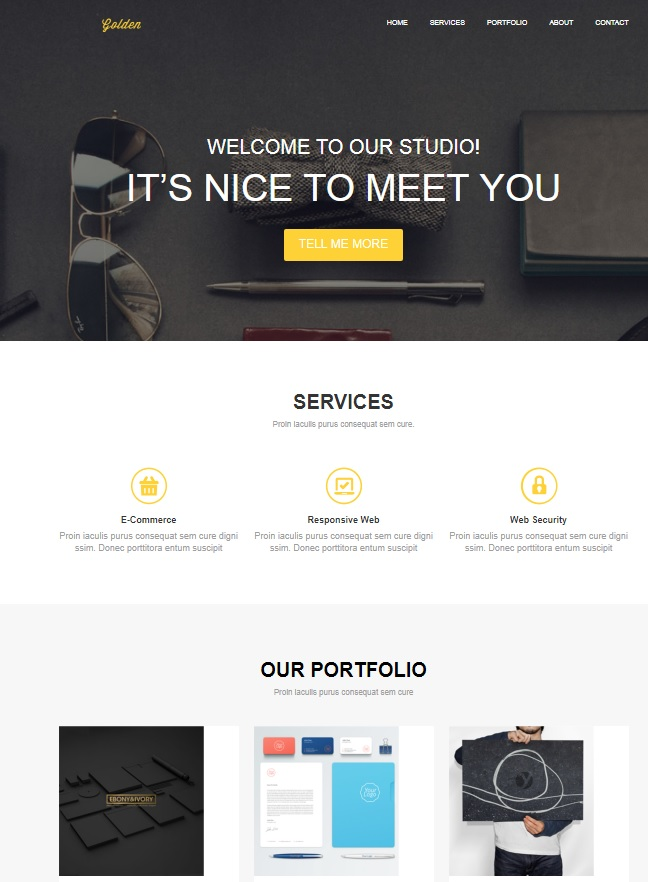
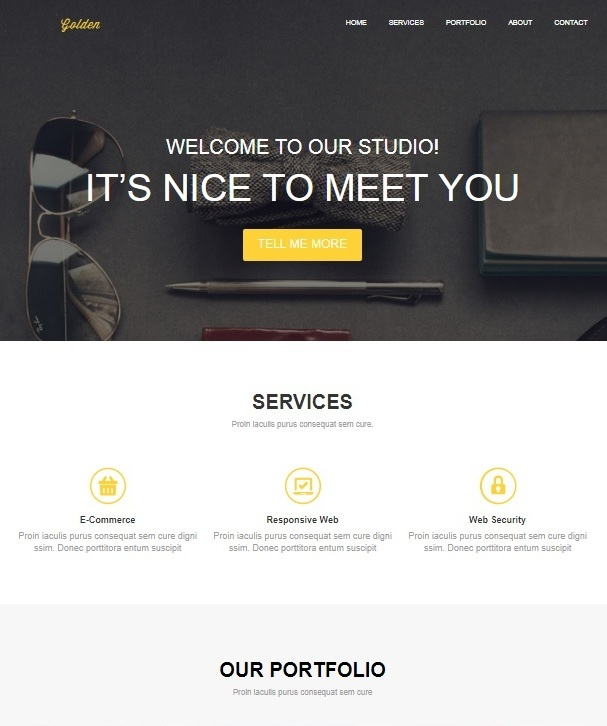
add new works
add new works

diff --git a/index.html b/index.html
@@ -39,17 +39,25 @@
     <div class="portfolio container" id="portfolio">
         <h2 class="portfolio__title">Портфоліо</h2>
         <div class="row">
-            <div class="col-xs-12 col-sm-4 col-md-4">
+            <div class="col-xs-12 col-sm-6 col-md-4">
                 <img src="img/work1.jpg" alt="">
                 <a href="#work" data-toggle="modal" data-work="work1">Переглянути роботу</a>
             </div>
-            <div class="col-xs-12 col-sm-4 col-md-4">
+            <div class="col-xs-12 col-sm-6 col-md-4">
                 <img src="img/work2.jpg" alt="">
                 <a href="#work" data-toggle="modal" data-work="work2">Переглянути роботу</a>
             </div>
-            <div class="col-xs-12 col-sm-4 col-md-4">
+            <div class="col-xs-12 col-sm-6 col-md-4">
                 <img src="img/work3.jpg" alt="">
                 <a href="#work" data-toggle="modal" data-work="work3">Переглянути роботу</a>
+            </div>
+            <div class="col-xs-12 col-sm-6 col-md-4">
+                <img src="img/work4.jpg" alt="">
+                <a href="#work" data-toggle="modal" data-work="work4">Переглянути роботу</a>
+            </div>
+            <div class="col-xs-12 col-sm-6 col-md-4">
+                <img src="img/work5.jpg" alt="">
+                <a href="#work" data-toggle="modal" data-work="work5">Переглянути роботу</a>
             </div>
         </div>
     </div>
@@ -72,7 +80,7 @@
                 </div>
                 <div class="col-md-3">
                     <p>Напишіть мені</p>
-                    <a href="#" class="offer-btn">Заказати сайт</a>
+                    <a href="#" class="offer-btn">Замовити сайт</a>
                 </div>
             </div>
         </div>

diff --git a/css/style.css b/css/style.css
@@ -38,6 +38,8 @@ body{
 }
 .main__overlay{
     position: absolute;
+    left: 0;
+    right: 0;
     height: 100%;
     width: 100%;
     background-color: rgba(0,0,0,.8);
@@ -73,7 +75,8 @@ body{
     text-transform: uppercase;
 }
 .portfolio img{
-    max-width: 100%;
+    width: 100%;
+    max-width: 250px;
     height: auto;
     box-shadow: 0 4px 29px 0 rgba(87, 92, 97, .54);
 }
@@ -97,7 +100,7 @@ body{
 
 footer{
     text-align: center;
-    background-color: #646464;
+    background-color: lightseagreen;
     color: #e4e4e4;
     padding: 40px 0;
     font-size: 22px;
@@ -190,6 +193,13 @@ footer{
     }
 }
 
+@media (min-width: 600px){
+    .portfolio img{
+        width: 300px;
+        height: 350px;
+        max-width: 400px;
+    }
+}
 /*modal new*/
 /*Main Content
 

diff --git a/work4.html b/work4.html
@@ -1,0 +1,10 @@
+<div class="row">
+    <div class="col-md-5">
+        <img src="img/work4.jpg" alt="">
+    </div>
+    <div class="col-md-7">
+        <h4>Інтернет магазин</h4>
+        <p>Lorem ipsum dolor sit amet, consectetur adipisicing elit. Assumenda consequuntur deleniti ducimus hic incidunt, laudantium nemo nihil quae quas quibusdam quisquam, ratione reiciendis repudiandae, tenetur.</p>
+        <a href="" class="modal-btn">Замовити такий сайт</a>
+    </div>
+</div>

diff --git a/work5.html b/work5.html
@@ -1,0 +1,10 @@
+<div class="row">
+    <div class="col-md-5">
+        <img src="img/work5.jpg" alt="">
+    </div>
+    <div class="col-md-7">
+        <h4>Інтернет магазин</h4>
+        <p>Lorem ipsum dolor sit amet, consectetur adipisicing elit. Assumenda consequuntur deleniti ducimus hic incidunt, laudantium nemo nihil quae quas quibusdam quisquam, ratione reiciendis repudiandae, tenetur.</p>
+        <a href="" class="modal-btn">Замовити такий сайт</a>
+    </div>
+</div>
